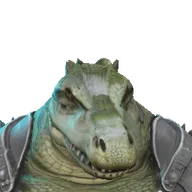
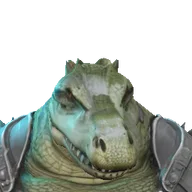
Intake 11-06 (WIP): Boglurker's portrait after centring
Claude-Session: https://claude.ai/code/session_012no7opCqP8rCoMpqLVd8kG

diff --git a/packages/client/src/frontend/portraitIndex.ts b/packages/client/src/frontend/portraitIndex.ts
@@ -24,7 +24,7 @@ export const SHIPPED_PORTRAITS: Readonly<Record<string, string>> = {
   'core.bill': 'core.bill.webp?v=9484f7a04d',
   'core.biscuit': 'core.biscuit.webp?v=f3a9bb0a6e',
   'core.bogdan': 'core.bogdan.webp?v=88ea18a54b',
-  'core.boglurker': 'core.boglurker.webp?v=bbdf3deb44',
+  'core.boglurker': 'core.boglurker.webp?v=5ceabd93d5',
   'core.bonejack': 'core.bonejack.webp?v=ad96123939',
   'core.bonesworth': 'core.bonesworth.webp?v=d36c9b494c',
   'core.botboy': 'core.botboy.webp?v=54f1ce25e3',
